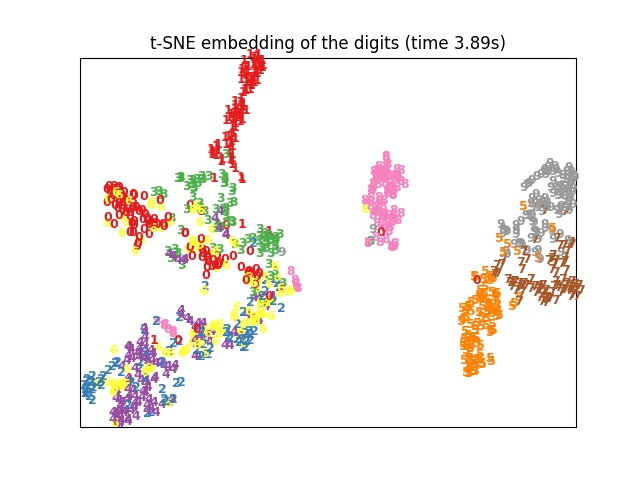
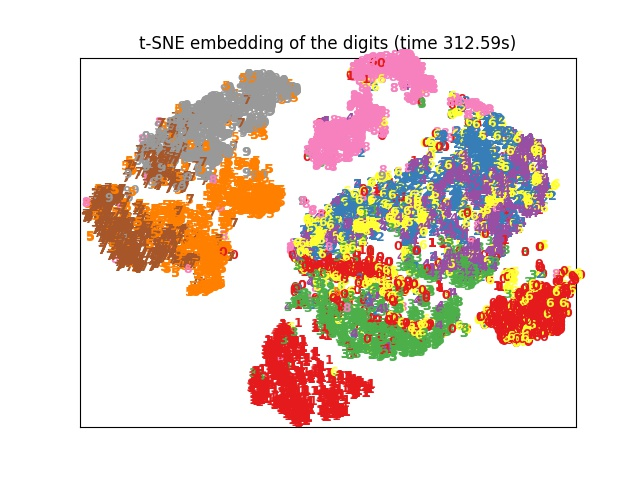
tsne

diff --git a/mnist_pytorch.py b/mnist_pytorch.py
@@ -104,11 +104,11 @@ class Net(nn.Module):
         bsz = x.shape[0]
         # print("flag1: ", x.shape)
         x = self.scattering(x)
-        x = x.view(bsz, -1)
+        features = x.view(bsz, -1)
         # print("flag2: ", x.shape)
-        x = self.fc1(x)
+        x = self.fc1(features)
         output = F.log_softmax(x, dim=1)
-        return output
+        return output, features
 
 # def visualize(features):
 #
@@ -120,7 +120,7 @@ def train(args, model, device, train_loader, optimizer, epoch):
     for batch_idx, (data, target) in enumerate(train_loader):
         data, target = data.to(device), target.to(device)
         optimizer.zero_grad()
-        output = model(data)
+        output, features = model(data)
         loss = F.nll_loss(output, target)
         loss.backward()
         optimizer.step()
@@ -139,7 +139,7 @@ def test(model, device, test_loader):
     with torch.no_grad():
         for data, target in test_loader:
             data, target = data.to(device), target.to(device)
-            output = model(data)
+            output, features = model(data)
             test_loss += F.nll_loss(output, target, reduction='sum').item()  # sum up batch loss
             pred = output.argmax(dim=1, keepdim=True)  # get the index of the max log-probability
             correct += pred.eq(target.view_as(pred)).sum().item()
@@ -156,7 +156,7 @@ def test(model, device, test_loader):
     tsne = manifold.TSNE(n_components=2, init='pca', random_state=0)
     t0 = time()
 
-    X_tsne = tsne.fit_transform(output.cpu())  # input is ndarray with shape [1083,64]  64 is the 8*8 dim.   1083 is the number of imgs
+    X_tsne = tsne.fit_transform(features.cpu())  # input is ndarray with shape [1083,64]  64 is the 8*8 dim.   1083 is the number of imgs
     #X_tsne is [784,2]   target is 784 tensor
 
     original_data = data.squeeze()
@@ -170,7 +170,7 @@ def main():
     parser = argparse.ArgumentParser(description='PyTorch MNIST Example')
     parser.add_argument('--train-batch-size', type=int, default=128, metavar='N',
                         help='input batch size for training (default: 64)')
-    parser.add_argument('--test-batch-size', type=int, default=1000, metavar='N',
+    parser.add_argument('--test-batch-size', type=int, default=100, metavar='N',
                         help='input batch size for testing (default: 1000)')
     parser.add_argument('--epochs', type=int, default=5, metavar='N',
                         help='number of epochs to train (default: 14)')
@@ -229,7 +229,7 @@ def main():
         scheduler.step()
 
     if args.save_model:
-        torch.save(model.state_dict(), "mnist_cnn.pt")
+        torch.save(model.state_dict(), "fashionmnist_scattering.pt")
 
 
 if __name__ == '__main__':
